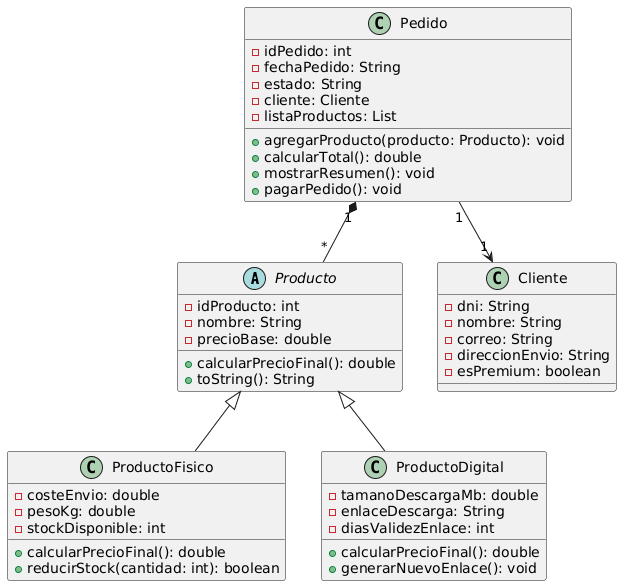
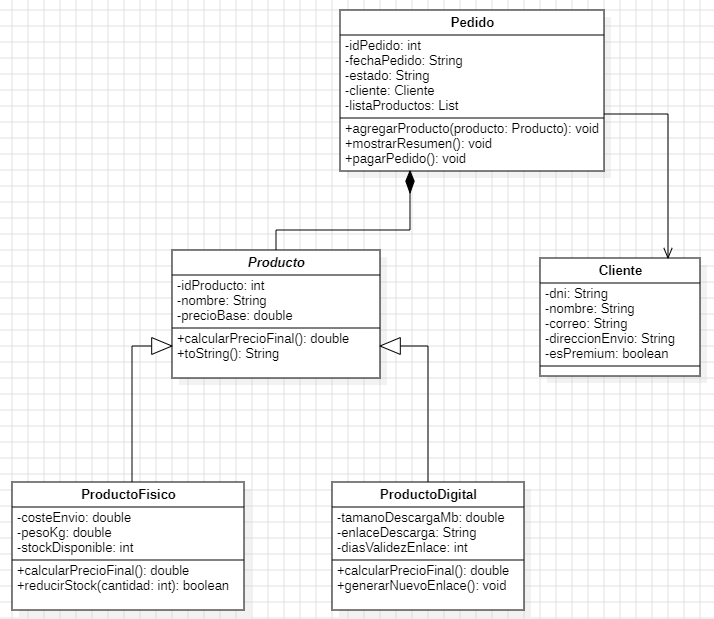
modelosInsertados

Changed region(s): [[0.0, 0.0, 1.0, 1.0], [0.336, 0.7065, 0.3666, 0.7372]]

diff --git a/src/Model/Pedido.java b/src/Model/Pedido.java
@@ -1,0 +1,125 @@
+package Model;
+
+import java.sql.Date;
+import java.util.ArrayList;
+import java.util.List;
+
+public class Pedido {
+    // VARIABLES
+    private int idPedido;
+    private Date fechaPedido;
+    private String estado;
+    private Cliente cliente;
+    private List<Producto> listaProductos;
+
+    // GETTERS Y SETTERS
+    public int getIdPedido() {
+        return idPedido;
+    }
+
+    public void setIdPedido(int idPedido) {
+        this.idPedido = idPedido;
+    }
+
+    public Date getFechaPedido() {
+        return fechaPedido;
+    }
+
+    public void setFechaPedido(Date fechaPedido) {
+        this.fechaPedido = fechaPedido;
+    }
+
+    public String getEstado() {
+        return estado;
+    }
+
+    public void setEstado(String estado) {
+        this.estado = estado;
+    }
+
+    public Cliente getCliente() {
+        return cliente;
+    }
+
+    public void setCliente(Cliente cliente) {
+        this.cliente = cliente;
+    }
+
+    public List<Producto> getListaProductos() {
+        return listaProductos;
+    }
+
+    public void setListaProductos(List<Producto> listaProductos) {
+        this.listaProductos = listaProductos;
+    }
+
+    // CONSTRUCTOR
+    public Pedido(int idPedido, Date fechaPedido, Cliente cliente) {
+        this.idPedido = idPedido;
+        this.fechaPedido = fechaPedido;
+        this.cliente = cliente;
+        this.estado = "PENDIENTE";
+        this.listaProductos = new ArrayList<>();
+    }
+
+    // FUNCIONES
+
+    /**
+     * @param producto 
+     * @return
+     */
+    public void agregarProducto(Producto producto) {
+        this.listaProductos.add(producto);
+    }
+
+    /**
+     * @return
+     */
+    public double calcularTotal() {
+        double total = 0;
+        for (Producto p : listaProductos) {
+            total += p.calcularPrecioFinal();
+        }
+        return total;
+    }
+
+    /**
+     * @return
+     */
+    public void mostrarResumen() {
+        System.out.println("RESUMEN DEL PEDIDO: \n" +
+        "=================================\n" +
+        "ID Pedido: " + idPedido + "\n" +
+        "Fecha: " + fechaPedido + "\n" +
+        "Estado" + estado + "\n" +
+        "Nombre del Cliente: " + cliente.getNombre() + "\n" +
+        "DNI del Cliente: " + cliente.getDni() + "\n" +
+        "Dirección del Cliente: " + cliente.getDireccionEnvio() + "\n" +
+        "=================================\n" +
+        "Productos:"
+        );
+
+        for (Producto p : listaProductos) {
+            System.out.println("- " + p.getNombre() + "" + p.calcularPrecioFinal() + "€");
+        }
+
+        System.out.println("=================================\n" +
+            "TOTAL IMPORTE: " + calcularTotal() + "€\n" +
+            "=================================" 
+        );
+    }
+
+    /**
+     * @return
+     */
+    public void pagarPedido() {
+        this.estado = "PAGADO";
+        for (Producto p : listaProductos) {
+            if (p instanceof ProductoFisico) {
+                ((ProductoFisico) p).reducirStock(1);
+            }
+        }
+        System.out.println("¡Pedido " + idPedido + " pagado con éxito y stock actualizado!");
+    }
+
+}

diff --git a/src/Model/ProductoFisico.java b/src/Model/ProductoFisico.java
@@ -1,0 +1,65 @@
+package Model;
+
+public class ProductoFisico extends Producto {
+    // VARIABLES
+    private double costeEnvio;
+    private double pesoKg;
+    private int stockDisponible;
+
+    // GETTERS Y SETTERS
+    public double getCosteEnvio() {
+        return costeEnvio;
+    }
+
+    public void setCosteEnvio(double costeEnvio) {
+        this.costeEnvio = costeEnvio;
+    }
+
+    public double getPesoKg() {
+        return pesoKg;
+    }
+
+    public void setPesoKg(double pesoKg) {
+        this.pesoKg = pesoKg;
+    }
+
+    public int getStockDisponible() {
+        return stockDisponible;
+    }
+
+    public void setStockDisponible(int stockDisponible) {
+        this.stockDisponible = stockDisponible;
+    }
+
+    // CONSTRUCTOR
+    public ProductoFisico(int idProducto, String nombre, double precioBase, double costeEnvio, double pesoKg, int stockDisponible) {
+        super(idProducto, nombre, precioBase);
+        this.costeEnvio = costeEnvio;
+        this.pesoKg = pesoKg;
+        this.stockDisponible = stockDisponible;
+    }
+
+    // FUNCIONES
+
+    /**
+     * @return
+     */
+    @Override
+    public double calcularPrecioFinal() {
+        return getPrecioBase() + this.costeEnvio;
+    }
+
+    /**
+     * @param cantidad 
+     * @return
+     */
+    public boolean reducirStock(int cantidad) {
+        if (this.stockDisponible >= cantidad) {
+            this.stockDisponible -= cantidad;
+            return true;
+        }
+        System.out.println("Error: Stock insuficiente para el producto.");
+        return false;
+    }
+
+}

diff --git a/src/Model/Cliente.java b/src/Model/Cliente.java
@@ -1,0 +1,60 @@
+package Model;
+
+public class Cliente {
+    // VARIABLES
+    private String dni;
+    private String nombre;
+    private String correo;
+    private String direccionEnvio;
+    private boolean esPremium;
+
+    // GETTERS Y SETTERS
+    public String getDni() {
+        return dni;
+    }
+
+    public void setDni(String dni) {
+        this.dni = dni;
+    }
+
+    public String getNombre() {
+        return nombre;
+    }
+
+    public void setNombre(String nombre) {
+        this.nombre = nombre;
+    }
+
+    public String getCorreo() {
+        return correo;
+    }
+
+    public void setCorreo(String correo) {
+        this.correo = correo;
+    }
+
+    public String getDireccionEnvio() {
+        return direccionEnvio;
+    }
+
+    public void setDireccionEnvio(String direccionEnvio) {
+        this.direccionEnvio = direccionEnvio;
+    }
+
+    public boolean getEsPremium() {
+        return esPremium;
+    }
+
+    public void setEsPremium(boolean esPremium) {
+        this.esPremium = esPremium;
+    }
+
+    // CONSTRUCTOR
+    public Cliente(String dni, String nombre, String correo, String direccionEnvio, boolean esPremium) {
+        this.dni = dni;
+        this.nombre = nombre;
+        this.correo = correo;
+        this.direccionEnvio = direccionEnvio;
+        this.esPremium = esPremium;
+    }
+}

diff --git a/src/Model/ProductoDigital.java b/src/Model/ProductoDigital.java
@@ -1,0 +1,59 @@
+package Model;
+
+public class ProductoDigital extends Producto {
+    // VARIABLES
+    private double tamanoDescargaMb;
+    private String enlaceDescarga;
+    private int diasValidezEnlace;
+
+    // GETTERS Y SETTERS
+    public double getTamanoDescargaMb() {
+        return tamanoDescargaMb;
+    }
+
+    public void setTamanoDescargaMb(double tamanoDescargaMb) {
+        this.tamanoDescargaMb = tamanoDescargaMb;
+    }
+
+    public String getEnlaceDescarga() {
+        return enlaceDescarga;
+    }
+
+    public void setEnlaceDescarga(String enlaceDescarga) {
+        this.enlaceDescarga = enlaceDescarga;
+    }
+
+    public int getDiasValidezEnlace() {
+        return diasValidezEnlace;
+    }
+
+    public void setDiasValidezEnlace(int diasValidezEnlace) {
+        this.diasValidezEnlace = diasValidezEnlace;
+    }
+
+    // CONSTRUCTOR
+    public ProductoDigital(int idProducto, String nombre, double precioBase, double tamanoDescargaMb, String enlaceDescarga, int diasValidezEnlace) {
+        super(idProducto, nombre, precioBase);
+        this.tamanoDescargaMb = tamanoDescargaMb;
+        this.enlaceDescarga = enlaceDescarga;
+        this.diasValidezEnlace = diasValidezEnlace;
+    }
+
+    // FUNCIONES
+
+    /**
+     * @return
+     */
+    @Override
+    public double calcularPrecioFinal() {
+        return getPrecioBase() * 1.21;
+    }
+
+    /**
+     * @return
+     */
+    public void generarNuevoEnlace() {
+        System.out.println("Simulación: Se ha generado un nuevo enlace seguro para el producto.");
+    }
+
+}

diff --git a/src/Model/Producto.java b/src/Model/Producto.java
@@ -1,0 +1,55 @@
+package Model;
+
+public abstract class Producto {
+    // VARIABLES
+    private int idProducto;
+    private String nombre;
+    private double precioBase;
+
+    // GETTERS Y SETTERS
+    public int getIdProducto() {
+        return idProducto;
+    }
+
+    public void setIdProducto(int idProducto) {
+        this.idProducto = idProducto;
+    }
+
+    public String getNombre() {
+        return nombre;
+    }
+
+    public void setNombre(String nombre) {
+        this.nombre = nombre;
+    }
+
+    public double getPrecioBase() {
+        return precioBase;
+    }
+
+    public void setPrecioBase(double precioBase) {
+        this.precioBase = precioBase;
+    }
+
+    // CONSTRUCTOR
+    public Producto(int idProducto, String nombre, double precioBase) {
+        this.idProducto = idProducto;
+        this.nombre = nombre;
+        this.precioBase = precioBase;
+    }
+    // FUNCIONES
+
+    /**
+     * @return
+     */
+    public abstract double calcularPrecioFinal();
+
+    /**
+     * @return
+     */
+    @Override
+    public String toString() {
+        return "Producto [ID=" + idProducto + ", Nombre=" + nombre + ", Precio Base=" + precioBase + "€]";
+    }
+
+}